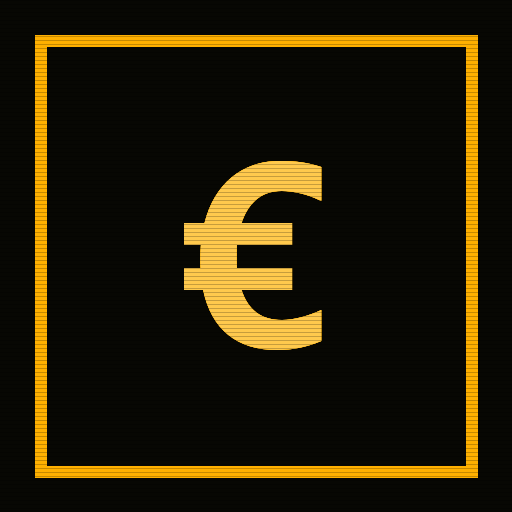
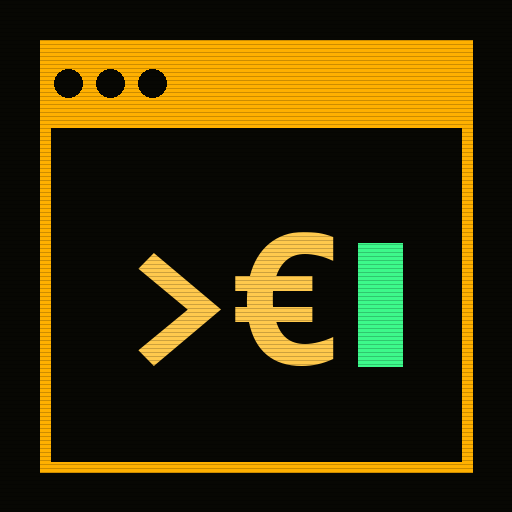
Icono ventana terminal + aviso de registro pendiente + % por cuenta
- Icono nuevo: ventana de terminal ambar con prompt >EUR y cursor fosforo,
  coherente con la interfaz CRT
- Banner parpadeante si el mes en curso aun no esta registrado; al pulsarlo
  lleva directo a Actualizar
- Barra de porcentaje bajo cada cuenta con su peso sobre el patrimonio total
- README actualizado al estado actual; cache SW v5

Changed region(s): [[0.0625, 0.0625, 0.9375, 0.9375], [0.25, 0.3125, 0.6562, 0.7188], [0.6875, 0.4688, 0.8125, 0.7188]]

diff --git a/assets/style.css b/assets/style.css
@@ -152,13 +152,32 @@ main { padding: 14px; max-width: 640px; margin: 0 auto; }
 }
 .seg-btn.active { background: var(--amber); color: #141204; }
 
+/* ─── banner registro pendiente ─── */
+.banner {
+  display: block; width: 100%; text-align: left;
+  background: rgba(255, 176, 0, 0.07);
+  border: 1px solid var(--amber); border-radius: var(--radius);
+  padding: 13px 15px;
+  color: var(--amber);
+  font-family: var(--mono); font-size: 11px; font-weight: 700;
+  letter-spacing: 0.1em; text-transform: uppercase;
+  cursor: pointer; -webkit-tap-highlight-color: transparent;
+  animation: pulse 2.2s ease-in-out infinite;
+}
+@keyframes pulse {
+  50% { box-shadow: 0 0 20px rgba(255, 176, 0, 0.35); background: rgba(255, 176, 0, 0.12); }
+}
+
 /* ─── lista de cuentas ─── */
 .lista-cuentas .cuenta-row {
   display: flex; justify-content: space-between; align-items: center; gap: 12px;
   padding: 11px 0; border-bottom: 1px dashed rgba(255, 176, 0, 0.16);
 }
 .lista-cuentas .cuenta-row:last-child { border-bottom: none; padding-bottom: 2px; }
-.cuenta-id { display: flex; align-items: center; gap: 11px; min-width: 0; }
+.cuenta-id { display: flex; align-items: center; gap: 11px; min-width: 0; flex: 1; }
+.cuenta-info { flex: 1; min-width: 0; }
+.share { height: 3px; background: rgba(255, 176, 0, 0.12); border-radius: 2px; margin-top: 6px; overflow: hidden; max-width: 180px; }
+.share i { display: block; height: 100%; background: var(--amber); box-shadow: 0 0 8px rgba(255, 176, 0, 0.6); }
 .avatar {
   width: 36px; height: 36px; border-radius: 4px; flex: none;
   display: flex; align-items: center; justify-content: center;

diff --git a/assets/app.js b/assets/app.js
@@ -195,6 +195,16 @@ function renderResumen() {
   const meses = mesesOrdenados();
   const empty = document.getElementById("empty-state");
   const dash = document.getElementById("dash");
+
+  // aviso de registro pendiente del mes en curso
+  const banner = document.getElementById("banner-pendiente");
+  const mesActual = hoyYM();
+  if (meses.length && data.cuentas.length && !data.registros[mesActual]) {
+    document.getElementById("banner-mes").textContent = mesLargo(mesActual);
+    banner.classList.remove("hidden");
+  } else {
+    banner.classList.add("hidden");
+  }
   if (!meses.length || !data.cuentas.length) {
     empty.classList.remove("hidden");
     dash.classList.add("hidden");
@@ -344,10 +354,16 @@ function renderResumen() {
       deltaHtml = `<span class="cuenta-delta">capital aportado</span>`;
     }
     const tipoTxt = { cuenta: "cuenta", inversion: "inversión", aportaciones: "aportaciones" }[c.tipo];
+    const pct = total > 0 && v !== null && v > 0 ? (v / total) * 100 : 0;
+    const pctTxt = pct > 0 ? ` · ${pct.toFixed(0)} %` : "";
     row.innerHTML = `
       <div class="cuenta-id">
         <span class="avatar t-${c.tipo}">${esc(iniciales(c.nombre))}</span>
-        <div><span class="cuenta-nombre">${esc(c.nombre)}</span><span class="cuenta-tipo">${tipoTxt}</span></div>
+        <div class="cuenta-info">
+          <span class="cuenta-nombre">${esc(c.nombre)}</span>
+          <span class="cuenta-tipo">${tipoTxt}${pctTxt}</span>
+          <div class="share"><i style="width:${pct.toFixed(1)}%"></i></div>
+        </div>
       </div>
       <div class="cuenta-valor">${v !== null ? fmtEur(v) : "—"}${deltaHtml}</div>`;
     cont.appendChild(row);
@@ -626,6 +642,7 @@ document.getElementById("lista-cuentas-cfg").addEventListener("change", (e) => {
     saveAndSync(null);
   }
 });
+document.getElementById("banner-pendiente").addEventListener("click", () => switchView("actualizar"));
 document.getElementById("seg-cuentas").addEventListener("click", () => {
   chartMode = "cuentas";
   localStorage.setItem("pat:chartmode", chartMode);

diff --git a/index.html b/index.html
@@ -24,6 +24,8 @@
 
     <!-- ====== VISTA: RESUMEN ====== -->
     <section id="view-resumen" class="view">
+      <button id="banner-pendiente" class="banner hidden">⚠ Registro pendiente · <span id="banner-mes"></span> — pulsa para actualizar</button>
+
       <div id="empty-state" class="card hidden">
         <h2>👋 Bienvenido</h2>
         <p>Para empezar: ve a <b>Ajustes</b>, conecta tu repositorio de datos de GitHub y crea tus cuentas. Después registra tu primer mes en <b>Actualizar</b>.</p>

diff --git a/sw.js b/sw.js
@@ -1,6 +1,6 @@
 /* Service worker: cachea la app para que abra sin conexión.
    Los datos van siempre por red (api.github.com no se cachea). */
-const CACHE = "patrimonio-v4";
+const CACHE = "patrimonio-v5";
 const SHELL = [
   "./",
   "./index.html",

diff --git a/README.md b/README.md
@@ -66,10 +66,22 @@ En **Ajustes → Cuentas**, añade cada sitio donde tienes dinero:
 
 - **Patrimonio total** del último mes registrado
 - **Ahorro del mes** = total actual − total del mes anterior
-- **Gasto estimado** = ingresos − ahorro (si registraste ingresos)
+- **Gasto estimado** = ingresos − ahorro · **Tasa de ahorro** = ahorro / ingresos
 - **Media de ahorro/mes** y **variación a 12 meses**
-- **Evolución** (línea) y **ahorro mensual** (barras ±)
+- **Objetivo de ahorro anual** con barra de progreso (se define en Ajustes)
+- **Evolución** con dos vistas: *Cuentas* (área apilada, una banda por cuenta —
+  el borde superior es el total) o *Total* (línea única)
+- **Ahorro mensual** (barras ±) y **% del patrimonio** que representa cada cuenta
 - Por cuenta de inversión: **diferencia vs. capital aportado**
+- **Aviso de registro pendiente**: si el mes en curso no está registrado, un
+  banner lo recuerda al abrir la app
+
+## Diseño
+
+Interfaz retro estilo **terminal financiera CRT**: tipografía monoespaciada,
+ámbar/verde fósforo sobre negro, scanlines y pestañas [F1]/[F2]/[F3]. Las
+cuentas se gestionan desde Ajustes: ✏️ renombrar, 📦 archivar (deja de pedirse
+pero su histórico se conserva) y ✕ eliminar.
 
 ## Copia de seguridad
 